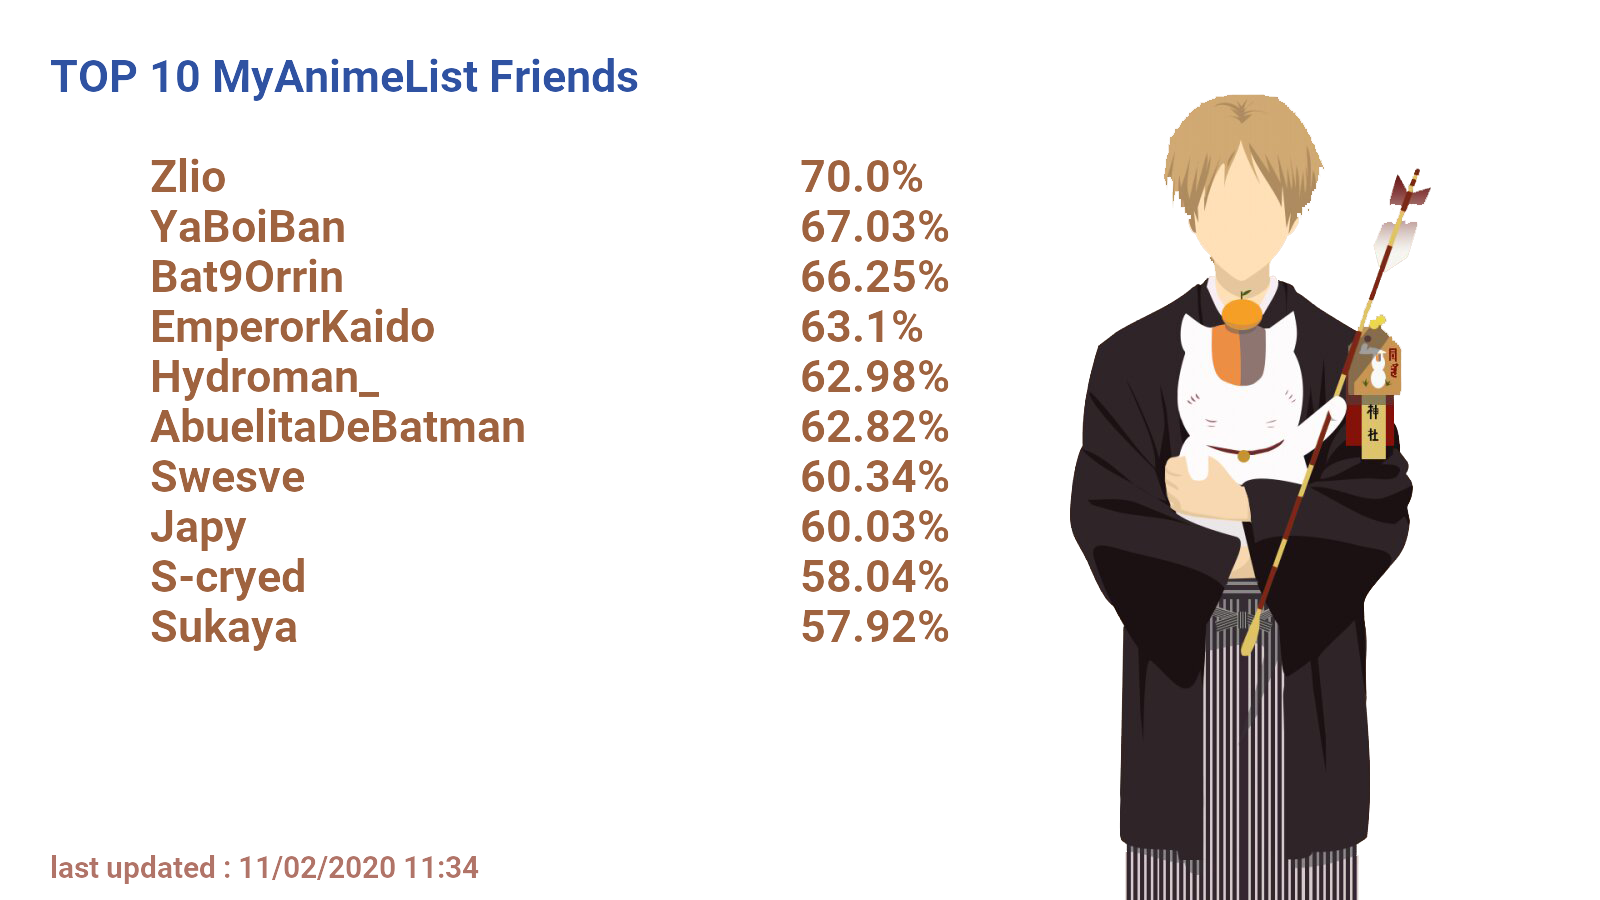
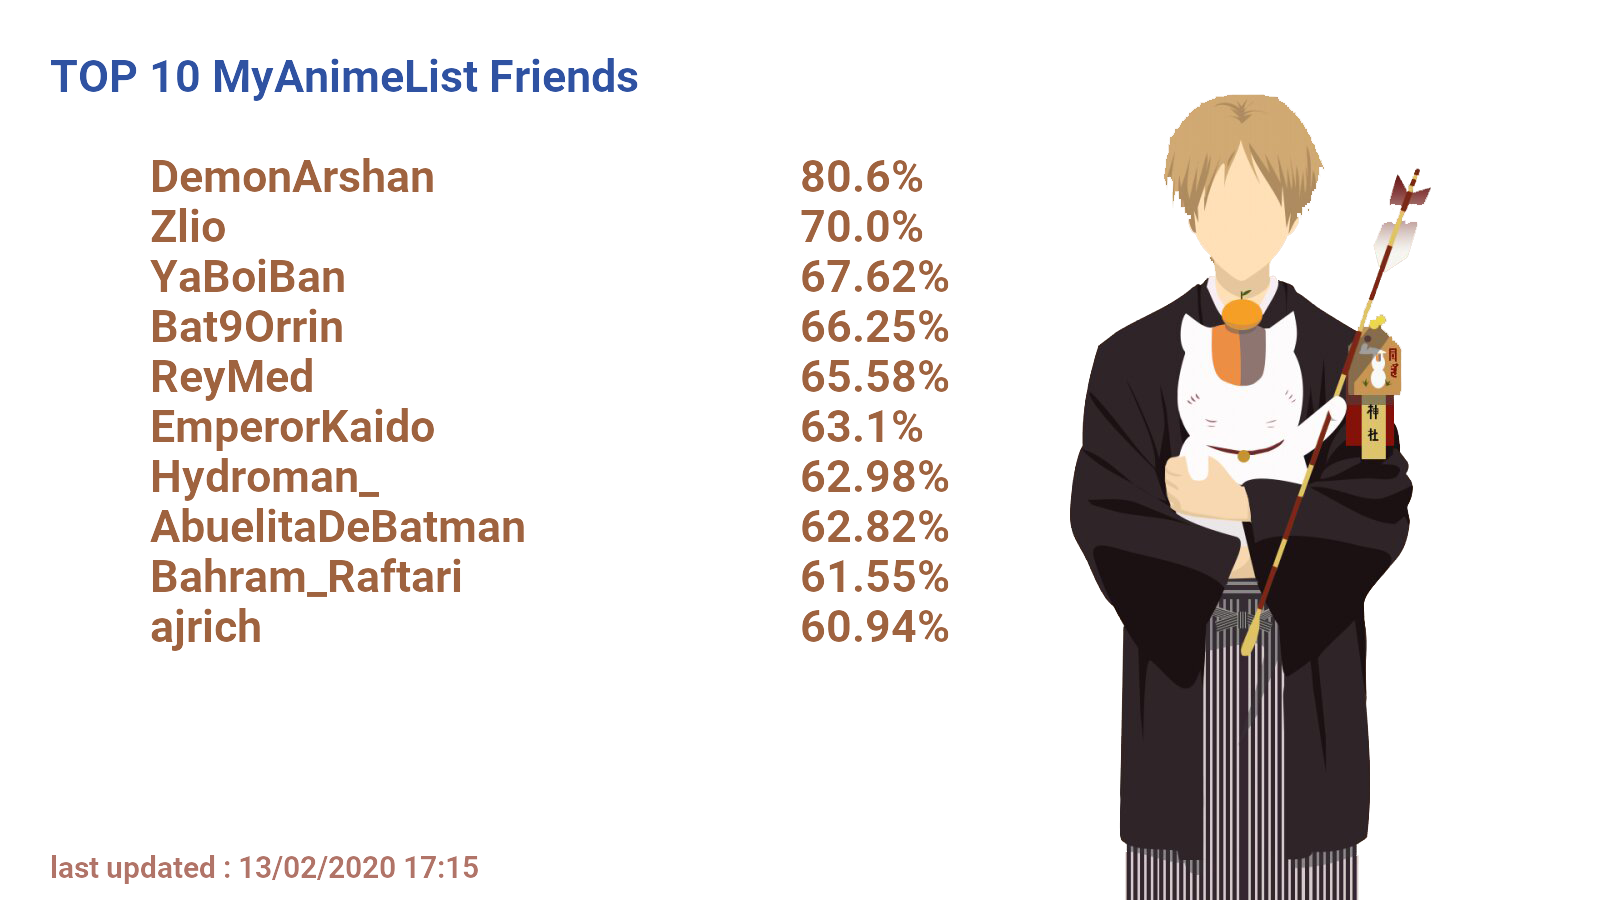
updates

diff --git a/mal-img-affinity-all.py b/mal-img-affinity-all.py
@@ -1,0 +1,215 @@
+#!/usr/bin/env python3
+from PIL import Image, ImageDraw, ImageFont
+from datetime import datetime
+import os
+import sys
+import json
+import time
+from decimal import DecimalException
+
+import objectpath
+from collections import OrderedDict
+
+from jikanpy import Jikan
+from aniffinity import Aniffinity
+from aniffinity.exceptions import RateLimitExceededError, AniffinityException, NoAffinityError, InvalidUserError
+from tabulate import tabulate
+
+# datetime object containing current date and time
+now = datetime.now()
+
+print("now =", now)
+# dd/mm/YY H:M:S
+dt_string = now.strftime("%d/%m/%Y %H:%M")
+
+
+# get username from command line
+if len(sys.argv) <= 1:
+    print("I expected a username but you didn't give me one!")
+    print('Example: python3 anifinity.py "Guts__"')
+    sys.exit(1)
+
+username = sys.argv[1].strip()
+
+if len(sys.argv) <= 2:
+    usr = username
+else:
+    usr = sys.argv[2].strip()
+
+jikan = Jikan()
+
+print("Downloading your friends from MyAnimeList...")
+# friends info
+ufriends = jikan.user(username=usr, request='friends')
+ufriends2 = jikan.user(username=usr, request='friends', argument=2)
+
+# merge all users
+userlist = []
+#userlist.append(ufriends['friends'])
+#userlist.append(ufriends2['friends'])
+
+for i in range(len(ufriends['friends'])):
+  userlist.append(ufriends['friends'][int(i)])
+
+for i in range(len(ufriends2['friends'])):
+  userlist.append(ufriends2['friends'][int(i)])
+
+print("Downloaded {} friends".format(len(userlist)))
+
+# Download the users myanimelist
+print("Downloading {}'s animelist...".format(username))
+af = Aniffinity(username, base_service="MyAnimeList", wait_time=2)
+
+# e.g. results = {"some_user": affinity_val}
+results = {}
+
+# create a list of friend names
+friend_names = [f["username"] for f in userlist]
+
+while len(friend_names) > 0: # while the list isn't empty
+    friend = friend_names[0] # get the first name
+    print("Comparing {}'s list to {}...".format(username, friend))
+    try:
+        # calculate affinity
+        affinity, shared = af.calculate_affinity(friend, service="MyAnimeList")
+        # save the result
+        results[friend] = round(affinity, 2)
+        # remove that friend from the list
+        friend_names.remove(friend)
+    except RateLimitExceededError:
+        print("We exceeded the rate limit!")
+        # wait for a while and then try again
+        time.sleep(10)
+        continue
+    except NoAffinityError as ne:
+        print("{}".format(ne))
+        # ignore this user
+        friend_names.remove(friend)
+        continue
+    except InvalidUserError:
+        print("Couldnt download list for {}. This may be because their list is private.".format(friend))
+        # ignore this user
+        friend_names.remove(friend)
+        continue
+    except DecimalException:
+        # see here:
+        # https://github.com/erkghlerngm44/aniffinity/blob/master/aniffinity/calcs.py#L32
+        # this can happen when a user has no ratings or rates everything the same
+        print("Division by zero error while trying to process list for {}...".format(friend))
+        # ignore this user
+        friend_names.remove(friend)
+        continue
+    except Exception as e:
+        # exit on any other error
+        print("Exception for {}: `{}`".format(friend, e))
+        break
+
+newresult = OrderedDict(sorted(results.items(), key=lambda t: t[1], reverse=True))
+# use the following line to have rapid result (comment line 57 to 95)
+#newresult = ...
+
+#for key in range(11,len(ufriends["friends"])):
+#    del newresult[key]
+print(newresult)
+# print(tabulate([v for v in newresult.items()], headers=["Friend", "Affinity"]))
+#print(type(result))
+
+# create Image object with the input image
+image = Image.open('top-friends.png').convert('RGBA')
+
+# initialise the drawing context with
+# the image object as background
+draw = ImageDraw.Draw(image)
+
+
+# create font object with the font file and specify
+# desired size
+
+font = ImageFont.truetype('Roboto-Bold.ttf', size=45)
+updatefont = ImageFont.truetype('Roboto-Bold.ttf', size=30)
+
+# starting position of the message
+
+(x, y) = (50, 50)
+message = "TOP 10 MyAnimeList Friends"
+color = 'rgb(47,82,162)' # black color
+draw.text((x, y), message, fill=color, font=font)
+
+(x, y) = (50, 850)
+lasttime = "last updated : " + dt_string
+color = 'rgb(177,116,104)'
+draw.text((x, y), lasttime, fill=color, font=updatefont)
+
+# draw the message on the background
+
+name0 = str([v for v in newresult.items()][0][0])
+val0 = str([v for v in newresult.items()][0][1])+"%"
+name1 = str([v for v in newresult.items()][1][0])
+val1 = str([v for v in newresult.items()][1][1])+"%"
+name2 = str([v for v in newresult.items()][2][0])
+val2 = str([v for v in newresult.items()][2][1])+"%"
+name3 = str([v for v in newresult.items()][3][0])
+val3 = str([v for v in newresult.items()][3][1])+"%"
+name4 = str([v for v in newresult.items()][4][0])
+val4 = str([v for v in newresult.items()][4][1])+"%"
+name5 = str([v for v in newresult.items()][5][0])
+val5 = str([v for v in newresult.items()][5][1])+"%"
+name6 = str([v for v in newresult.items()][6][0])
+val6 = str([v for v in newresult.items()][6][1])+"%"
+name7 = str([v for v in newresult.items()][7][0])
+val7 = str([v for v in newresult.items()][7][1])+"%"
+name8 = str([v for v in newresult.items()][8][0])
+val8 = str([v for v in newresult.items()][8][1])+"%"
+name9 = str([v for v in newresult.items()][9][0])
+val9 = str([v for v in newresult.items()][9][1])+"%"
+
+color = 'rgb(159, 99, 63)' # white color
+(x, y) = (150, 150)
+draw.text((x, y), name0, fill=color, font=font)
+(x, y) = (150, 200)
+draw.text((x, y), name1, fill=color, font=font)
+(x, y) = (150, 250)
+draw.text((x, y), name2, fill=color, font=font)
+(x, y) = (150, 300)
+draw.text((x, y), name3, fill=color, font=font)
+(x, y) = (150, 350)
+draw.text((x, y), name4, fill=color, font=font)
+(x, y) = (150, 400)
+draw.text((x, y), name5, fill=color, font=font)
+(x, y) = (150, 450)
+draw.text((x, y), name6, fill=color, font=font)
+(x, y) = (150, 500)
+draw.text((x, y), name7, fill=color, font=font)
+(x, y) = (150, 550)
+draw.text((x, y), name8, fill=color, font=font)
+(x, y) = (150, 600)
+draw.text((x, y), name9, fill=color, font=font)
+(x, y) = (800, 150)
+draw.text((x, y), val0, fill=color, font=font)
+(x, y) = (800, 200)
+draw.text((x, y), val1, fill=color, font=font)
+(x, y) = (800, 250)
+draw.text((x, y), val2, fill=color, font=font)
+(x, y) = (800, 300)
+draw.text((x, y), val3, fill=color, font=font)
+(x, y) = (800, 350)
+draw.text((x, y), val4, fill=color, font=font)
+(x, y) = (800, 400)
+draw.text((x, y), val5, fill=color, font=font)
+(x, y) = (800, 450)
+draw.text((x, y), val6, fill=color, font=font)
+(x, y) = (800, 500)
+draw.text((x, y), val7, fill=color, font=font)
+(x, y) = (800, 550)
+draw.text((x, y), val8, fill=color, font=font)
+(x, y) = (800, 600)
+draw.text((x, y), val9, fill=color, font=font)
+
+
+# save the edited image
+
+image.save('top-10-friends.png')
+
+os.system('git add .')
+os.system('git commit -m "updates"')
+os.system('git push origin master')
